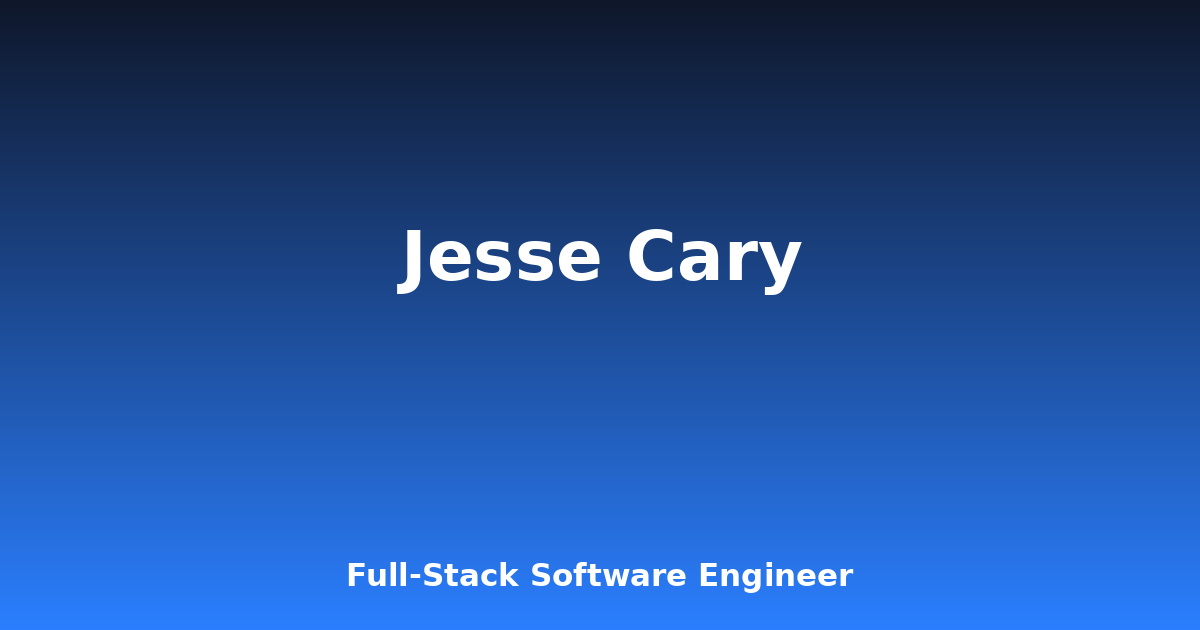
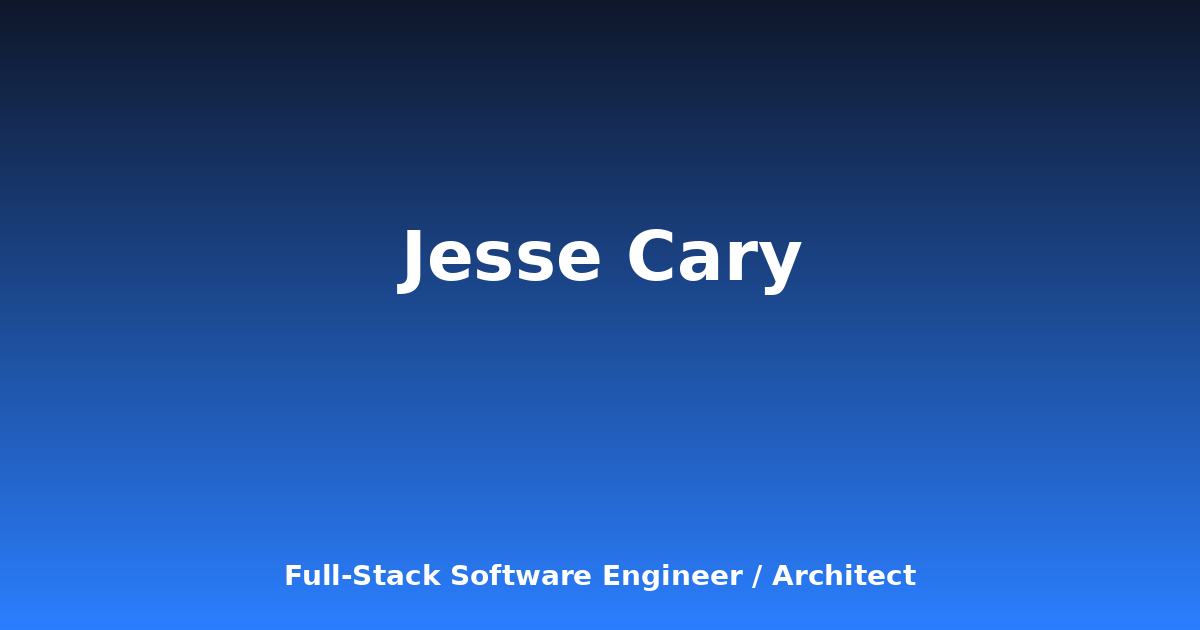
feat: populate homepage with résume content for target roles (#5)
Replaces the placeholder homepage content with real résumé-driven content,
positioned for the roles being targeted: fintech (payments/billing), healthtech
& regulated industries, and multi-tenant SaaS. All personal content lives in
`src/data/site.ts`; one small hero edit renders a location line.

## Changes

- **Identity & contacts** (`src/data/site.ts`) — real name, title, and
  `Tucson, AZ` location; GitHub/LinkedIn point to the real `jesseiancary`
  handles (no phone, by choice).
- **Professional summary** — rewritten to lead with 18 years of end-to-end
  application-architect experience and to name all three target domains:
  multi-tenant SaaS, PCI DSS Level 1 payments, and HIPAA-governed healthcare
  (HL7/EMR); closes by naming fintech/healthtech/SaaS as the roles sought.
- **Meta description** — broadened to multi-tenant SaaS + regulated domains for
  SEO / link previews.
- **Skills** — curated from the résumé into 7 groups ordered to mirror the
  target domains (architecture/SaaS → payments → healthcare → APIs → languages →
  data → cloud), including a new **Healthcare & Compliance** group (HL7, MLLP,
  HIPAA, EMR/EHR, HIS/LIS/PACS, Data Mapping).
- **Hero** (`src/pages/index.astro`) — conditionally renders `site.location`
  under the tagline.
- **`public/og.png`** — regenerated placeholder link-preview image.

## Testing

- `npm run build` — passes; 3 pages built, sitemap generated.
- Verified in the built HTML: summary mentions multi-tenant SaaS / PCI / HIPAA
[…]

Changed region(s): [[0.2158, 0.8746, 0.7708, 0.9349]]

diff --git a/src/data/site.ts b/src/data/site.ts
@@ -1,19 +1,21 @@
 // Single source of truth for everything personal on the site.
-// Edit this file to update your name, summary, contact links, and skills —
+// Edit this file to update your name, summary, contact links, and skills -
 // no component changes needed.
 
 export const site = {
-  name: 'Jesse Cary',
+  name: 'Jesse Ian Cary',
   // Shown in the browser tab and as the default OpenGraph title.
-  title: 'Jesse Cary — Software Engineer',
+  title: 'Jesse Ian Cary - Full-Stack Software Engineer & Architect',
   // Default meta description for SEO / link previews.
   description:
-    'Software engineer building full-stack web applications. A showcase of side projects, with code and live demos.',
+    'Software engineer and application architect specializing in multi-tenant SaaS and secure systems for regulated domains - PCI DSS Level 1 payments and HIPAA/HL7 healthcare integrations.',
   // Short role/tagline under your name in the hero.
-  tagline: 'Full-Stack Software Engineer',
+  tagline: 'Full-Stack Software Engineer / Architect',
+  // City, shown as a muted line under the tagline. Set to null to hide.
+  location: 'Tucson, AZ',
   // 2–4 sentence professional summary for the hero section.
   summary:
-    'I build end-to-end web applications with a focus on clean, maintainable code and thoughtful user experience. Below are a few side projects I have shipped — each with source code and a live demo. I am currently looking for a full-time software engineering role.',
+    "I'm a software engineer and application architect with 18 years of experience owning products end to end - from business need through architecture and hands-on implementation to production. I specialize in multi-tenant SaaS platforms and secure systems for regulated domains, including PCI DSS Level 1 payments and HIPAA-governed healthcare (HL7/EMR) integrations. Below are side projects I've built, each with source code and a live demo. I'm currently looking for a full-time role in fintech, healthtech, or SaaS.",
   email: 'jesseiancary@gmail.com',
   // Optional résumé in /public. Set to null to hide the download button.
   resumeUrl: '/resume.pdf',
@@ -23,26 +25,94 @@ export const site = {
 // Remove any you do not want to show.
 export const socials: { label: string; href: string }[] = [
   { label: 'Email', href: `mailto:${site.email}` },
-  { label: 'GitHub', href: 'https://github.com/your-username' },
-  { label: 'LinkedIn', href: 'https://linkedin.com/in/your-username' },
+  { label: 'GitHub', href: 'https://github.com/jesseiancary' },
+  { label: 'LinkedIn', href: 'https://linkedin.com/in/jesseiancary' },
 ];
 
 // Grouped skills shown on the homepage. Edit freely.
+// Ordered to mirror target domains: SaaS/architecture → payments → healthcare.
 export const skillGroups: { category: string; items: string[] }[] = [
   {
-    category: 'Languages',
-    items: ['TypeScript', 'JavaScript', 'Python', 'SQL', 'HTML', 'CSS'],
+    category: 'Architecture & Systems',
+    items: [
+      'Application Architecture',
+      'Domain-Driven Design',
+      'Multi-Tenant SaaS',
+      'Distributed Systems',
+      'System Design',
+      'Shared Services',
+      'Legacy Modernization',
+      'RBAC',
+    ],
   },
   {
-    category: 'Frontend',
-    items: ['React', 'Astro', 'Tailwind CSS', 'Next.js'],
+    category: 'Payments & Security',
+    items: [
+      'Payment Processing',
+      'Tokenization',
+      'Stored Credentials',
+      '3-D Secure (3DS)',
+      'PCI DSS Level 1',
+      'Fraud Detection',
+      'Chargebacks & Disputes',
+      'Clover',
+      'WorldPay',
+      'Braintree',
+      'PayEezy',
+      'PayPal',
+      'Apple Pay',
+      'Google Pay',
+    ],
   },
   {
-    category: 'Backend',
-    items: ['Node.js', 'PostgreSQL', 'REST APIs', 'Express'],
+    category: 'Healthcare & Compliance',
+    items: [
+      'HL7 v2/v3',
+      'MLLP',
+      'HIPAA',
+      'EMR / EHR Integrations',
+      'HIS / LIS / PACS',
+      'Data Mapping',
+    ],
   },
   {
-    category: 'Tooling & Cloud',
-    items: ['Git', 'AWS', 'Vercel', 'Docker', 'CI/CD'],
+    category: 'APIs & Integration',
+    items: [
+      'REST API Design',
+      'Webhook Design',
+      'OpenAPI / Swagger',
+      'Event-Driven Integration',
+      'API Versioning',
+      'Fault Tolerance & Recovery',
+      'OAuth',
+    ],
+  },
+  {
+    category: 'Languages & Frameworks',
+    items: [
+      'TypeScript',
+      'JavaScript (ES6+)',
+      'C# / .NET',
+      'SQL',
+      'Node.js',
+      'Express',
+      'Angular',
+      'React',
+    ],
+  },
+  {
+    category: 'Data & Caching',
+    items: [
+      'MongoDB',
+      'SQL Server',
+      'Redis',
+      'Mongoose',
+      'Database Design',
+      'Database Migrations',
+    ],
+  },
+  {
+    category: 'Cloud & DevOps',
+    items: ['AWS', 'Docker', 'CI/CD', 'GitHub Actions', 'Observability', 'Automated Testing'],
   },
 ];
